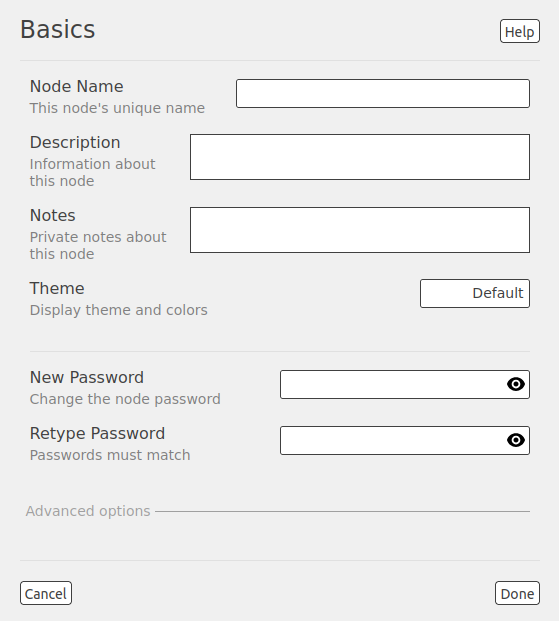
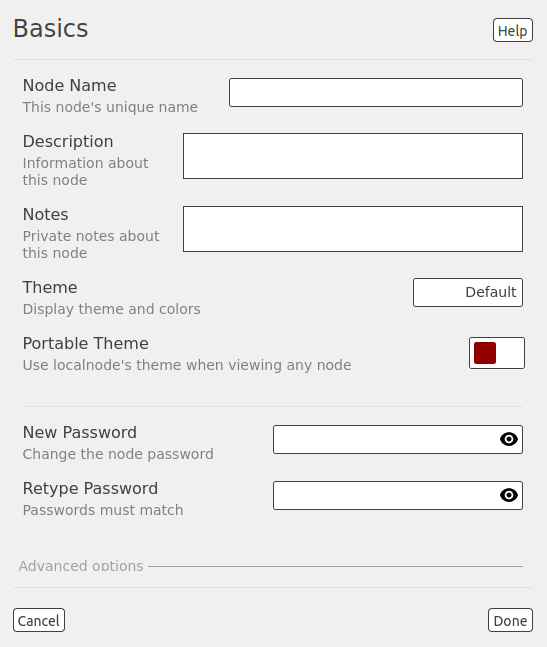
add portable theme

diff --git a/arednGettingStarted/node_admin.rst b/arednGettingStarted/node_admin.rst
@@ -50,6 +50,9 @@ Notes
 Theme
   Click in the field at the right to select a theme from the dropdown list. Your node will immediately display your page in the selected theme.
 
+Portable Theme
+  This switch allows you to enable theme portability. When *Portable Theme* is enabled, the theme on your localnode will be the theme used when viewing any node on the mesh. By default this setting is disabled, which means that the remote node owner's theme will appear in your browser.
+
 Password
   Typically passwords may contain the characters ``a-z``, ``A-Z``, ``0-9``, period ``.``, dash ``-``, underscore ``_``, exclamation ``!``, and tilde ``~``. Avoid Linux-reserved characters, including but not limited to ``#``, ``$``, ``&``, ``*``, ``<``, ``>``. Enter the new password again in the *Retype Password* box to verify it is correct. You can click the *eye* icon at the right of the password fields to toggle between hidden and visible text. Be sure to remember or record the new password so you can use it for any future administrative tasks on the node.
 
